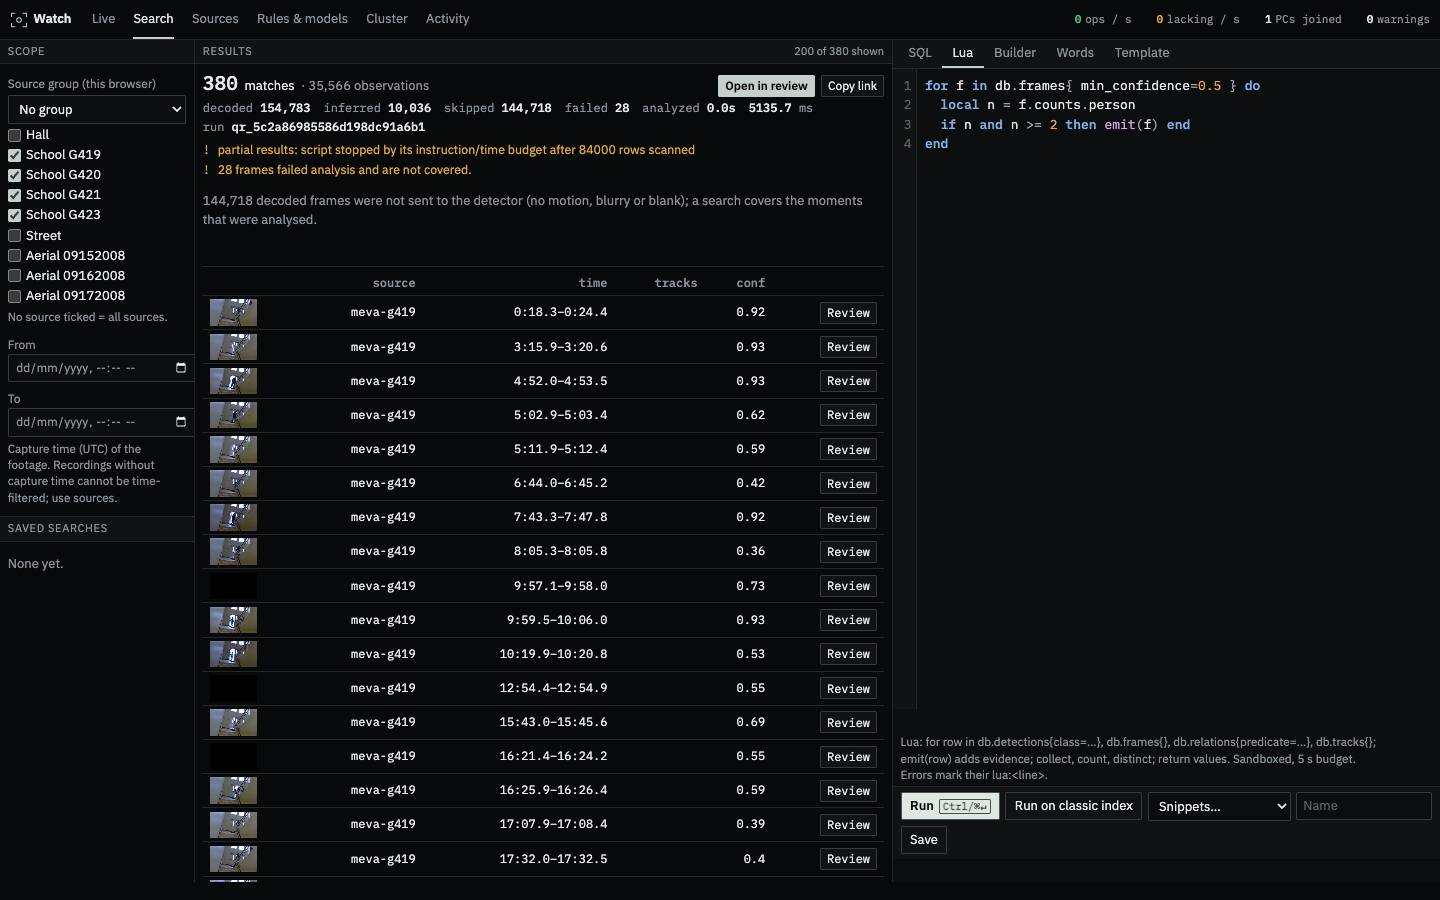
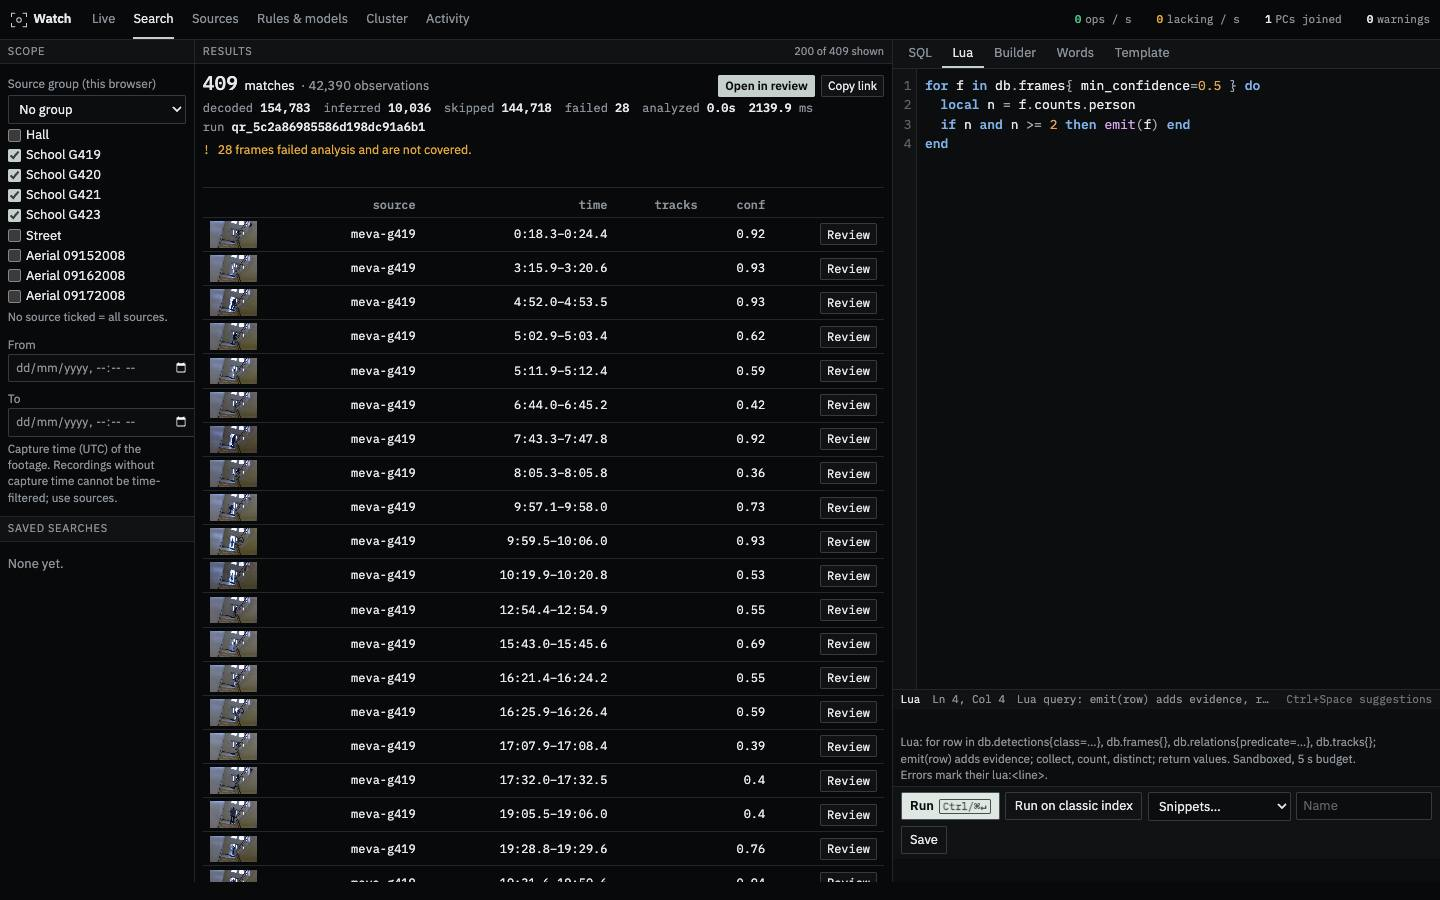
Add VS Code-style autocomplete to the SQL and Lua editors
- Editor: completion popup (prefix then fuzzy ranking, kind badges, docs
  panel), signature help, hover docs, auto-close brackets, bracket match,
  dedent after end, Ctrl+/ comments for Lua, status line.
- SQL: context-aware keywords, tables, columns per table, type-aware
  operators, values from the installed model labels, camera ids and
  predicates ("holding" flagged unsupported), query snippets with tab stops.
- Lua: sandbox-only library, the db.* API with argument keys and row
  fields (frames counts.<class>), snippets. Rule editor gets the rule DSL.
- Search: results header shows matches with the unit beside it; the
  skipped-frames warning becomes a calm info line.
- Verified: 1,278 of 1,291 suggestions are accepted by the server; the
  rest are flagged unsupported on purpose.

Changed region(s): [[0.125, 0.1556, 0.625, 0.9956]]

diff --git a/rust/src/watch/ui/app.js b/rust/src/watch/ui/app.js
@@ -971,7 +971,7 @@ function makeEditor(box, onRun, opts) {
   function autoPair(e) {
     const k = e.key, v = ta.value, s = ta.selectionStart, nx = v[s], pv = v[s - 1];
     if (ta.selectionStart !== ta.selectionEnd) return false;
-    if ((")]}'\"".includes(k)) && nx === k && (k in BRC ? (OPENS.includes(BRC[k])) : QUOTES.includes(k))) { e.preventDefault(); ta.setSelectionRange(s + 1, s + 1); return true; }
+    if ((")]}'\"".includes(k)) && nx === k && (k in BRC ? (OPENS.includes(BRC[k])) : QUOTES.includes(k))) { e.preventDefault(); closePop(); ta.setSelectionRange(s + 1, s + 1); return true; }
     const okNext = nx === undefined || /[\s)\]};,]/.test(nx);
     if (OPENS.includes(k) && k in BR && okNext) { e.preventDefault(); ins(k + BR[k]); ta.setSelectionRange(s + 1, s + 1); if (k === "{") sched(false); return true; }
     if (QUOTES.includes(k) && okNext && !/\w/.test(pv || "") && !inLit(v, s)) { e.preventDefault(); ins(k + k); ta.setSelectionRange(s + 1, s + 1); sched(false); return true; }
@@ -1087,10 +1087,10 @@ function makeEditor(box, onRun, opts) {
   }
   const renderSigPlain = (n) => (n === "seen" ? 'seen("class")' : n === "count" ? 'count("class") >= n' : 'ratio("a", "b") >= x');
   ta.addEventListener("mousemove", (e) => {
-    clearTimeout(hovT); const i = indexAt(e.clientX, e.clientY);
-    if (i === hovAt) return; if (hov && !hov.hidden) hov.hidden = true; hovAt = i; if (i < 0) return;
+    const i = indexAt(e.clientX, e.clientY);
+    if (i === hovAt) return; clearTimeout(hovT); if (hov && !hov.hidden) hov.hidden = true; hovAt = i; if (i < 0) return;
     hovT = setTimeout(() => {
-      let it = null; try { it = hoverDoc(ta.value, i); } catch (er2) { it = null; console.error("hover", er2); } if (!it || isOpen()) return;
+      let it = null; try { it = hoverDoc(ta.value, i); } catch (er2) { it = null; } if (!it || isOpen()) return;
       if (!hov) { hov = document.createElement("div"); hov.className = "ed-hover"; hov.setAttribute("role", "tooltip"); document.body.appendChild(hov); }
       hov.innerHTML = docHtml(it); hov.hidden = false; const vw = document.documentElement.clientWidth, w = Math.min(hov.offsetWidth, vw - 16), h = hov.offsetHeight;
       hov.style.left = Math.max(8, Math.min(e.clientX, vw - w - 8)) + "px"; hov.style.top = (e.clientY + 18 + h > innerHeight ? Math.max(6, e.clientY - h - 8) : e.clientY + 18) + "px";
@@ -1145,7 +1145,7 @@ function makeEditor(box, onRun, opts) {
     if (e.key === "Escape") { if (session) { session = null; e.stopPropagation(); } hideSig(); hideHover(); return; }
     if (session && e.key === "Tab" && plain) { e.preventDefault(); stop(e.shiftKey ? -1 : 1); return; }
     if (mod && e.key === "/" && kind === "lua") { e.preventDefault(); toggleComment(); return; }
-    if (plain && e.key.length === 1 && autoPair(e)) { closePop(); return; }
+    if (plain && e.key.length === 1 && autoPair(e)) return;
     if (e.key === "Backspace" && plain && ta.selectionStart === ta.selectionEnd) {
       const v = ta.value, s = ta.selectionStart, a = v[s - 1], b = v[s];
       if (a && b && ((a in BR && BR[a] === b && OPENS.includes(a)) || (QUOTES.includes(a) && a === b))) { e.preventDefault(); ta.setSelectionRange(s - 1, s + 1); document.execCommand("delete"); return; }
@@ -1163,6 +1163,7 @@ function makeEditor(box, onRun, opts) {
       e.preventDefault(); ins("\n" + ind + extra);
     }
   });
+  ed.hoverDoc = hoverDoc; ed.sigAt = sigAt;
   paint(); status(); return ed;
 }
   return { highlight, makeEditor, data: DATA, loadData, fuzzy, sqlComplete, luaComplete, ruleComplete };

diff --git a/rust/src/watch/ui/find.js b/rust/src/watch/ui/find.js
@@ -221,7 +221,7 @@ function holdingUnsupported() { return !models.some((m) => (m.supported_relation
 // Info only: say so when the analysed intervals cover < 95% of the matched media's duration (durations come from GET /api/v1/media/{id}).
 async function coverageNote(c, matches) {
   const ids = [...new Set(matches.map((m) => m.media_id))].slice(0, 8), an = V.analyzed(c);
-  if (!ids.length || !(c.decoded > 0)) return;
+  if (!ids.length || !(c.decoded > 0) || !(an > 0)) return; // an = 0 means the server sent no intervals for a multi-media scope: unknown, say nothing
   try {
     const ms = await Promise.all(ids.map((id) => V.call("GET", "/api/v1/media/" + encodeURIComponent(id)).catch(() => null)));
     const dur = ms.reduce((a, m) => a + ((m && Number(m.duration_us)) || 0), 0), el = $("cov-note");

diff --git a/docs/DISTRIBUTED.md b/docs/DISTRIBUTED.md
@@ -1,0 +1,59 @@
+# Distributed search design
+
+Status: design (item 7 of docs/loop/STATE.md). Not built yet. Branch for the work: `feature/distributed-search`.
+
+## Goal
+
+Search and live alerts that use every computer in the cluster, keep working when a computer drops out, and say plainly what they could and could not cover.
+
+## What exists today
+
+- Workers decode and run the detector. The head's scheduler gives them cameras and archive segments (leases, generations, retries, failover from a checkpoint).
+- Every worker posts its observations to the head, which keeps the single SQLite database. Search, review, alerts and the audit log all run on the head.
+- This is simple and correct. It does not scale search past one computer's disk and CPU, and the head is a single point of failure for results.
+
+## Decisions
+
+1. **Shard by recording.** A recording (media) belongs to exactly one node, the node that ingested it. Observations, detections, relations and frame summaries for that media live in that node's local SQLite file. Reason: every result shape the engine produces (review windows, track counts, frame summaries, Lua scripts) is computed per recording, so shards combine without double counting.
+2. **The head keeps the catalog and the human state:** sources, media records (including `node_id`), models, jobs/leases, query runs, review matches, reviews, alerts, audit. These are small. Query runs and review matches stay on the head so the review page needs no changes.
+3. **The head is the only coordinator.** No peer-to-peer queries. A node answers only to the head, authenticated with its worker token.
+4. **Same Store trait.** A `FederatedStore` implements `domain::Store` on the head. Reads for observations/detections/summaries/relations fan out to the owning nodes (or to the local shard when the head is also a node); writes of catalog data stay local. The query engine (`query::v1`) does not change.
+5. **Scatter-gather with limits.** Each node call has a deadline (default 4 s per page), a row budget and a snapshot id. The head merges in the existing key order (media, time, id) with a k-way merge, so cursors stay stable: a cursor encodes the per-node position.
+6. **Partial results are explicit.** The query response lists `nodes: [{id, state: ok|slow|down, rows, elapsed_ms}]`; the warnings say "2 of 3 computers answered; results may be incomplete". Zero results with a missing node are never shown as "none found".
+7. **Snapshots.** Each node reports its commit sequence; a query run records the vector (node -> sequence) and reads at or below it. Pages of one run read the same snapshot.
+8. **Media proxy.** Video, frames, thumbnails and sprites are served by the owning node; the head proxies Range requests (`/api/v1/media/{id}/...` -> `node/api/v1/shard/media/{id}/...`). If the node is down the media is "unavailable on its computer" (clear message, not a failure of the whole page).
+9. **Realtime.** Each node evaluates alert rules next to its data (it already holds the FrameSummary) and sends `index` and `alert` events to the head, which republishes on `/api/v1/events` with resume cursors. Alert ids are deterministic, so a retry or a failover replay does not duplicate. Human decisions stay on the head.
+10. **Failure model.** A lost node: its cameras fail over as today (new generation, resume from checkpoint, tracker ids reset); its historical shard is unavailable until it returns (flagged partial). Replicating a shard to a second node is out of scope for version 1; the file format (one SQLite file per node, WAL) makes a later copy straightforward.
+11. **Collections.** A source group is a list of source ids. The planner maps ids to nodes through the catalog and calls only those nodes.
+12. **Security.** Shard endpoints (`/api/v1/shard/*`) accept only worker tokens (never sessions), are read-only except ingest, and are rate limited. Media paths are never exposed.
+
+## Shard API (node side)
+
+- `POST /api/v1/shard/detections` {filter, page, snapshot} -> rows, next, snapshot
+- `POST /api/v1/shard/summaries`, `/relations`, `/observations`, `/count`
+- `GET /api/v1/shard/status` -> {node_id, snapshot, media: [...], rows}
+- `GET /api/v1/shard/media/{id}/stream|frame|thumbnails|sprite` (Range)
+- `GET /api/v1/shard/events?cursor=` (SSE: index, alert)
+
+## Build order
+
+1. Node-local store: workers write to their own `shard.db`; heartbeat reports `snapshot` and `media_ids`. The head keeps writing its own recordings to its shard (the head is a node).
+2. Shard read API and `FederatedStore` with k-way merge, deadlines, partial flags, vector snapshots.
+3. Media proxy and node-aware `/api/v1/media/*`.
+4. Realtime: node rule evaluation and event relay.
+5. Chaos test: head + 3 workers, kill one mid-query and mid-index; assert flagged-partial results, no duplicates, cursors resume, failover completes.
+6. UI: node status chips on Search and Review ("3/3 computers"), a clear partial-results banner.
+
+## Verification gates
+
+- Federated results equal single-store results for the same data (same match windows, same counts) when all nodes answer.
+- Killing a node mid-query returns within the deadline with `partial: true` and the surviving nodes' rows.
+- A cursor from a page remains valid after one node restarts.
+- Event stream resumes without loss or duplication after a head restart.
+- Numbers: query latency with 1 and 3 nodes on this machine, labelled single-machine.
+
+## Known limits (version 1)
+
+- No replication of shards; a down node means partial results.
+- Counting distinct values across nodes sums per-media counts (tracks are per media, so this is exact for track counts; `COUNT(DISTINCT class)` style values are merged by set union).
+- Lua scripts run on the head over merged iterators (slow for huge scans); pushing scripts to nodes is a later optimisation.

diff --git a/docs/loop/STATE.md b/docs/loop/STATE.md
@@ -1,0 +1,19 @@
+# Watch build loop: state
+
+Rule: no questions to the user. Decide with sensible defaults, record the decision here, keep going until every item is Done.
+Each iteration: pick the first item not Done, run it (agent or direct), verify (build, test suite, real browser or two-process run), fix, commit on its branch, update this table.
+
+Defaults chosen (no answer from the user yet): the demo cluster is a mix of machines. macOS on Apple silicon gets a prebuilt worker bundle from the head; every other OS builds from a source bundle served by the head (needs Rust). Workers join only on request (a command or a pairing code), never by being pushed to.
+
+| # | Item | Branch | Status | Evidence |
+| --- | --- | --- | --- | --- |
+| 1 | Editor autocomplete (SQL + Lua) and Search wording fixes | feature/watch-vision-platform | Done: verified in a real browser (SQL keywords/tables/columns/values, Lua db./row fields/counts.), 1,278 of 1,291 suggestions accepted by the server (the rest intentionally flagged), rehearsal 15/15 | docs/evidence/e2/ |
+| 2 | Cluster join (running, agent K): `cw join`, `/join` page, pairing, prebuilt/source bundle, models + config + footage served by the head, `cw deploy user@host` | feature/watch-vision-platform | Not started | docs/evidence/k/ |
+| 3 | Cluster work split: archive segments across workers, no duplicates, failover per segment | same | Not started | docs/evidence/k/ |
+| 4 | Cluster benchmark: run, per-worker live progress, 1/2/3/4 PC results, speed-up and efficiency, honest same-machine warning | same | Not started | docs/evidence/k/ |
+| 5 | Realtime view: per-camera lag and keeping-up, camera to worker map, capacity versus demand, phone camera helper (test URL, add as live source) | same | Not started | docs/evidence/k/ |
+| 6 | `docs/CLUSTER_DEMO.md` runbook for the multi-PC demo | same | Not started | |
+| 7 | Distributed search: per-node shards, fan-out and merge, partial results, realtime events, media proxy | feature/distributed-search | Not started | docs/DISTRIBUTED.md |
+| 8 | Final pass: full test suite, acceptance, demo rehearsal, docs refresh, commit | each branch | Not started | |
+
+Verification gates for "Done": `cargo test` green; the acceptance script has no FAIL; the real-browser rehearsal passes with no console errors; for cluster items a real run with a head and at least two worker processes (killing one mid-run); anything that needs several physical PCs for a number is labelled as measured on one machine.
